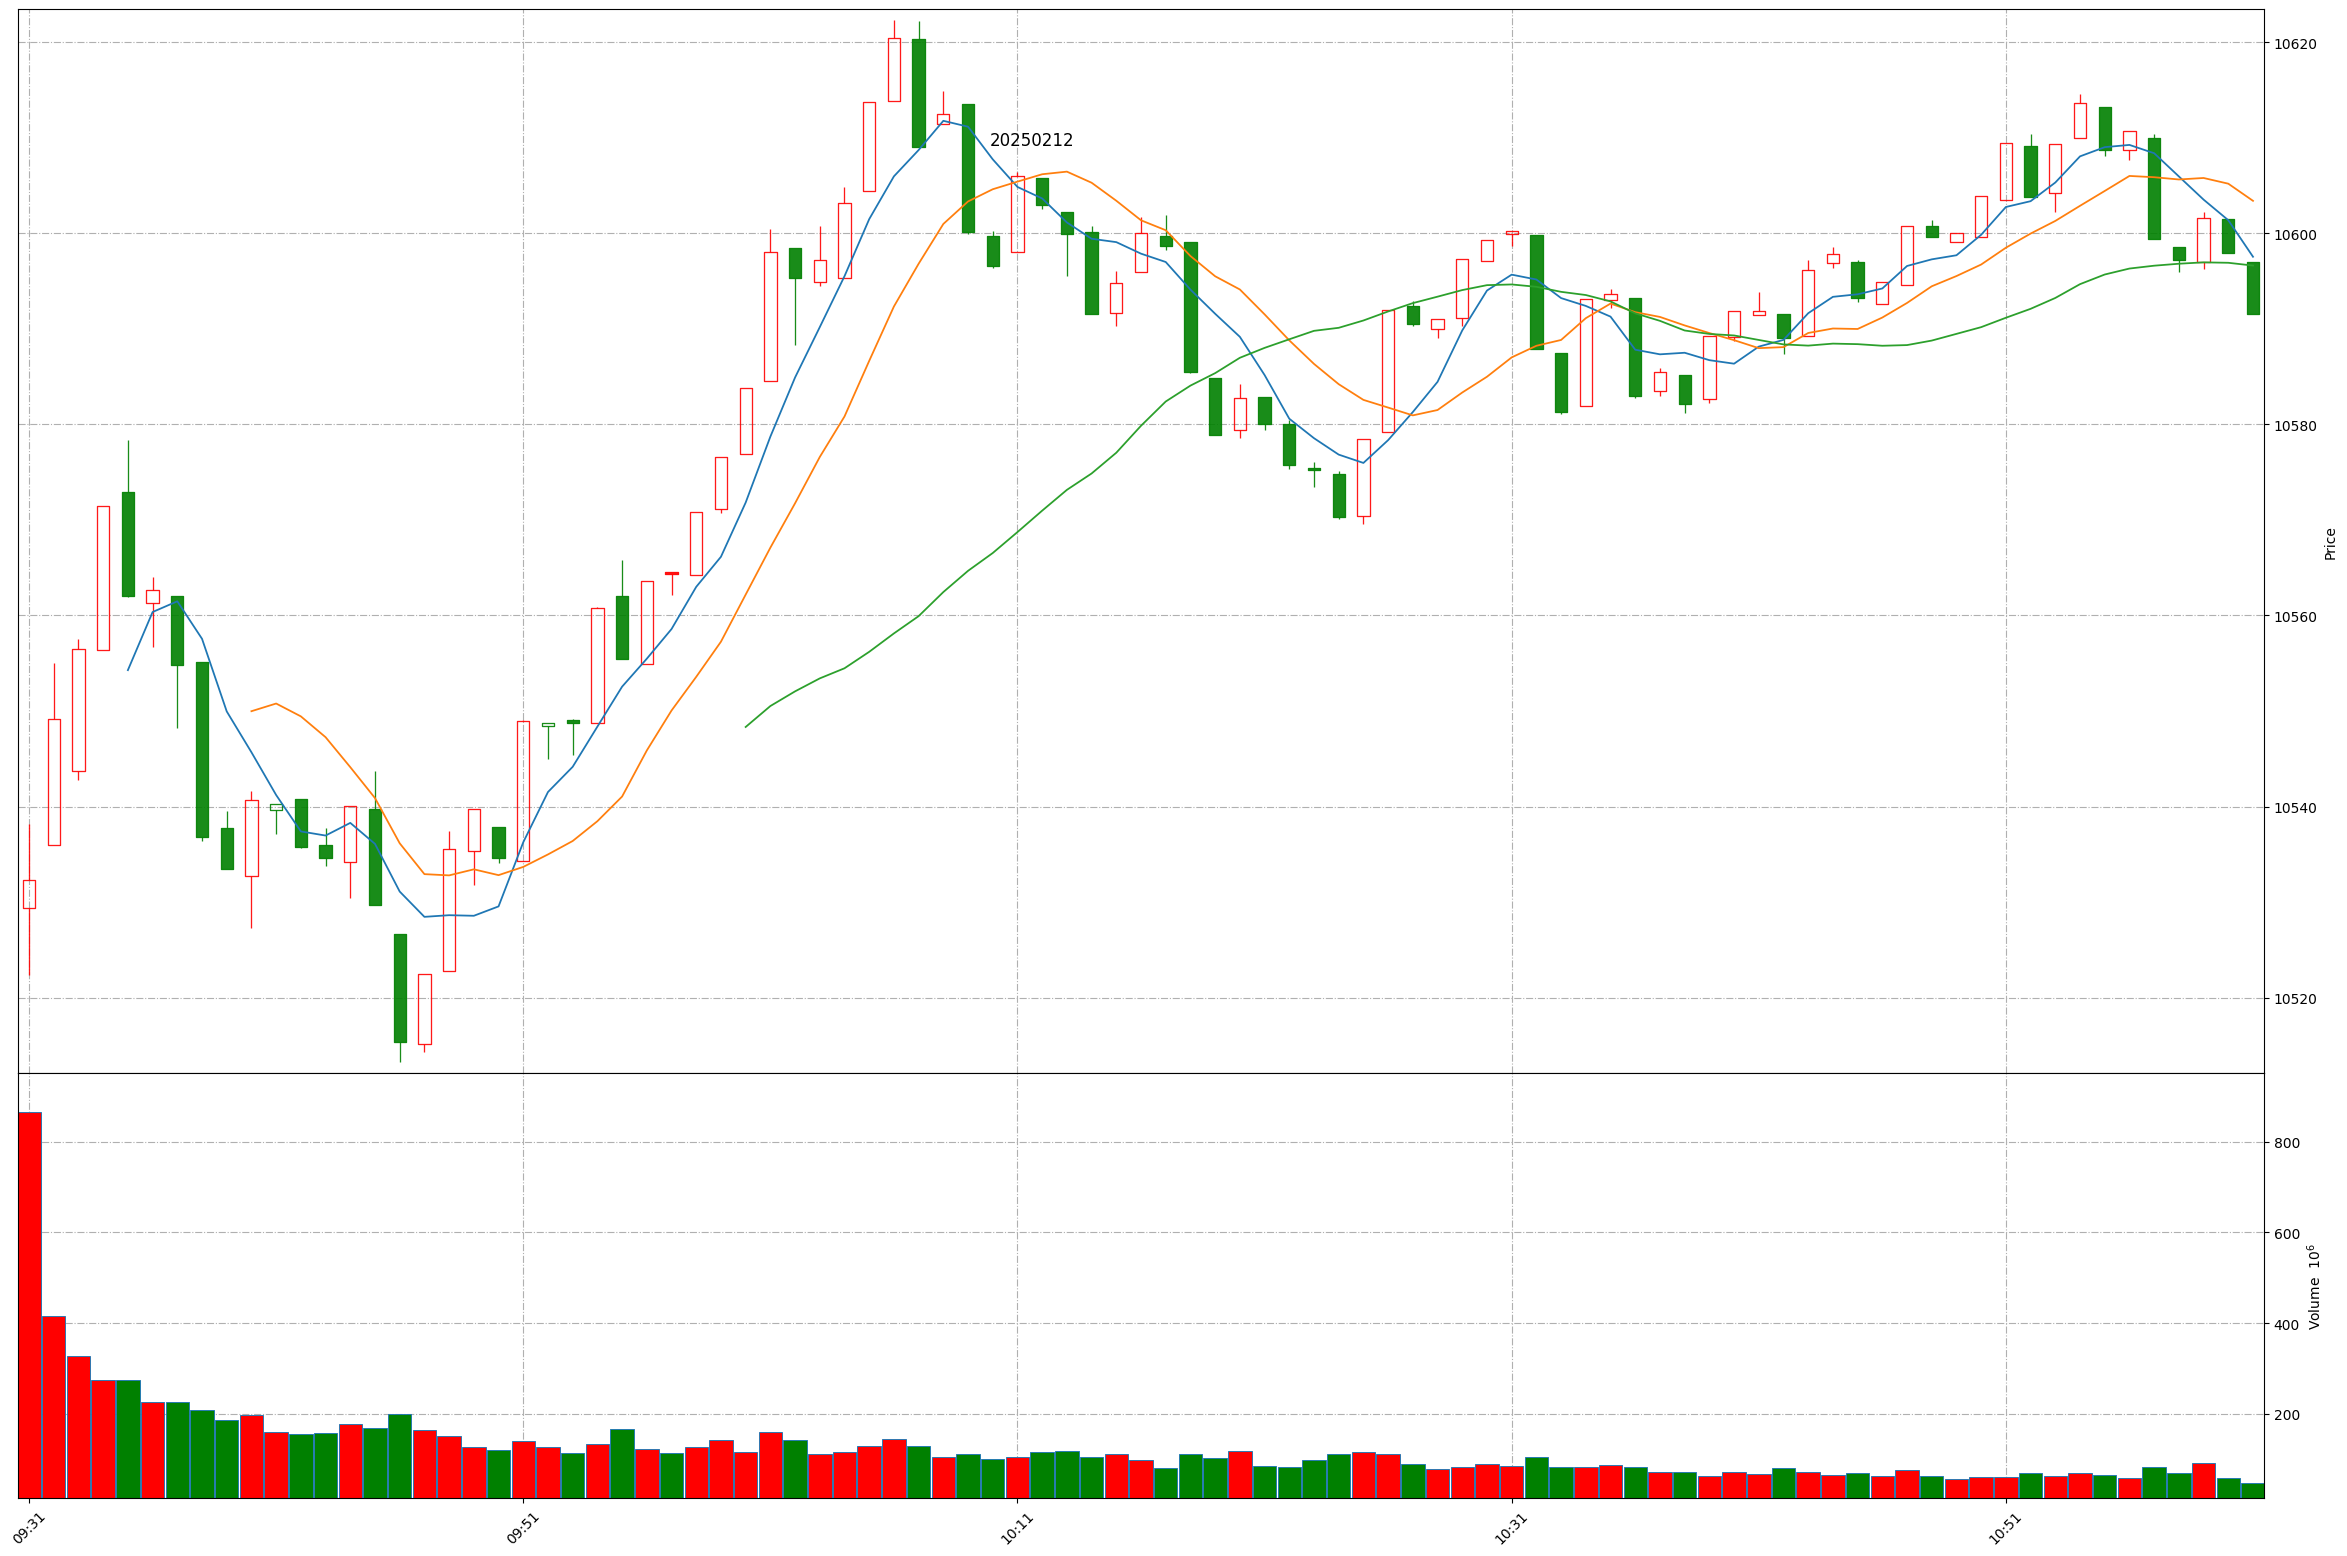
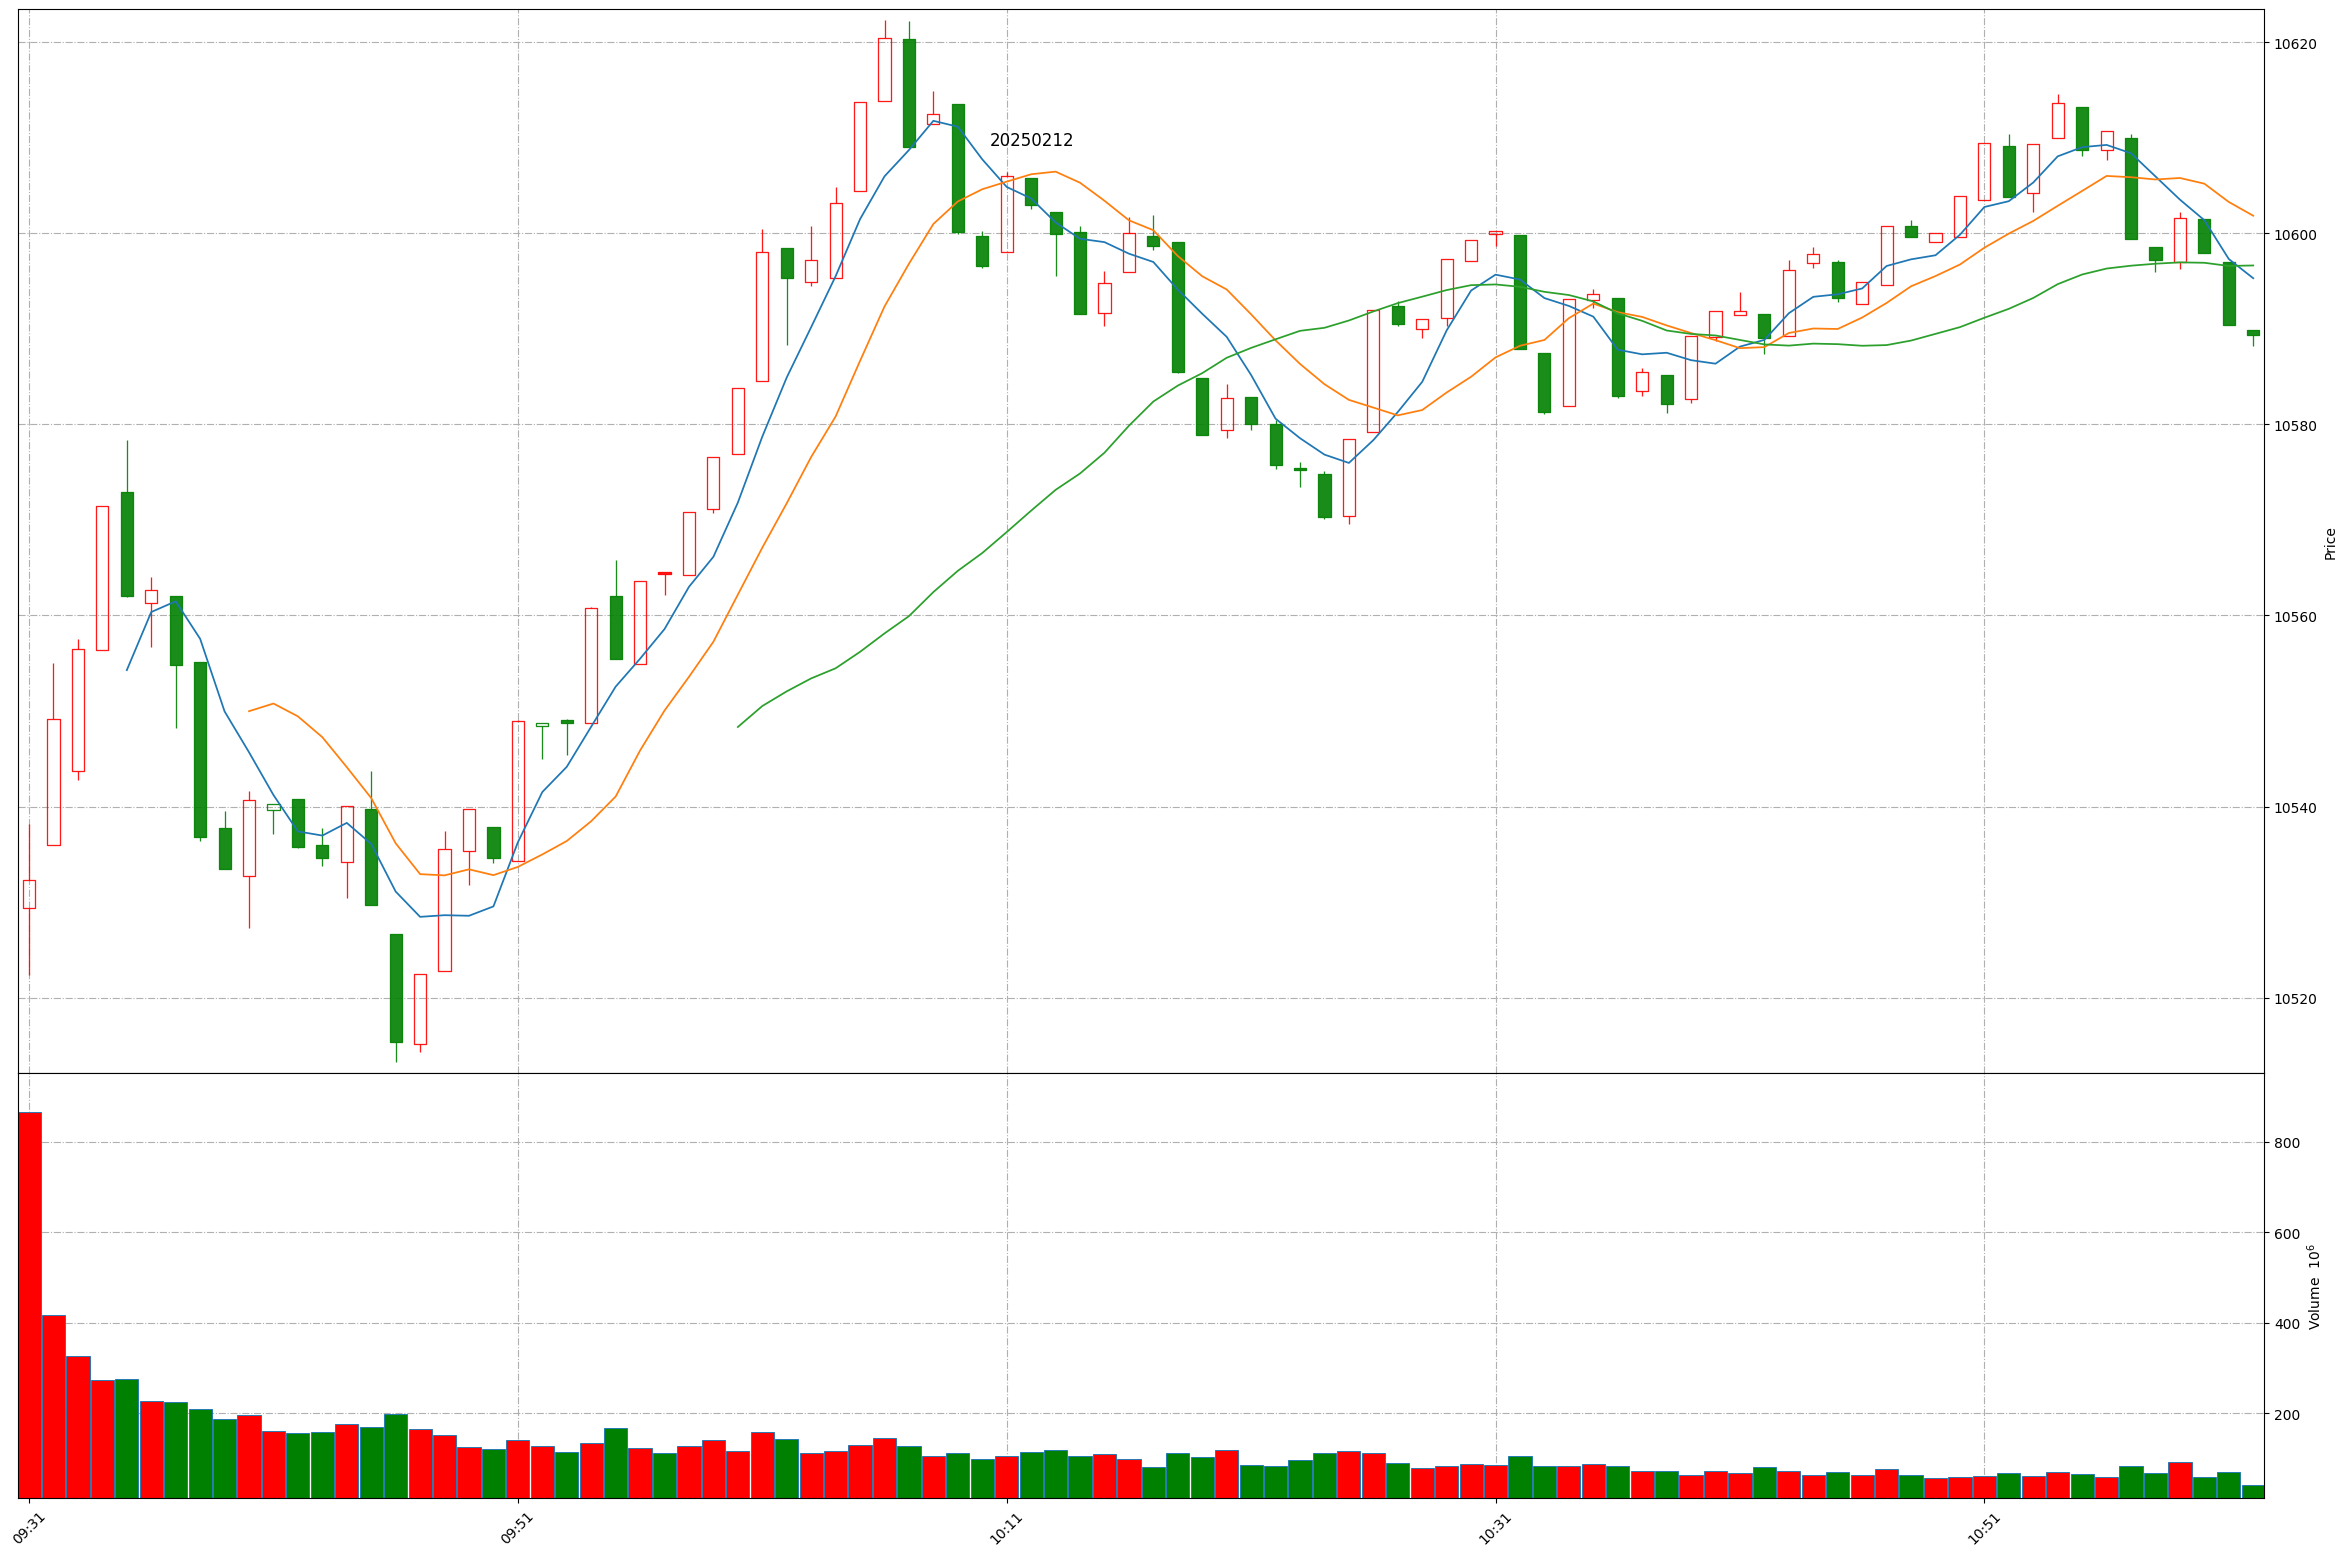
Github action update at 2025-02-12 11:01:58.

diff --git a/README.md b/README.md
@@ -1,11 +1,11 @@
 
 # Daily-A-share-market-quotes 每日 A 股指数（5min 更新）- 20250212
 
-### 上证指数 20250212 11:0
+### 上证指数 20250212 11:1
 ![](./fig/2025/2/20250212-sh000001.png)
 
-### 深证成指 20250212 11:0
+### 深证成指 20250212 11:1
 ![](./fig/2025/2/20250212-sz399001.png)
 
-### 北证50 20250212 11:0
+### 北证50 20250212 11:1
 ![](./fig/2025/2/20250212-bj899050.png)
